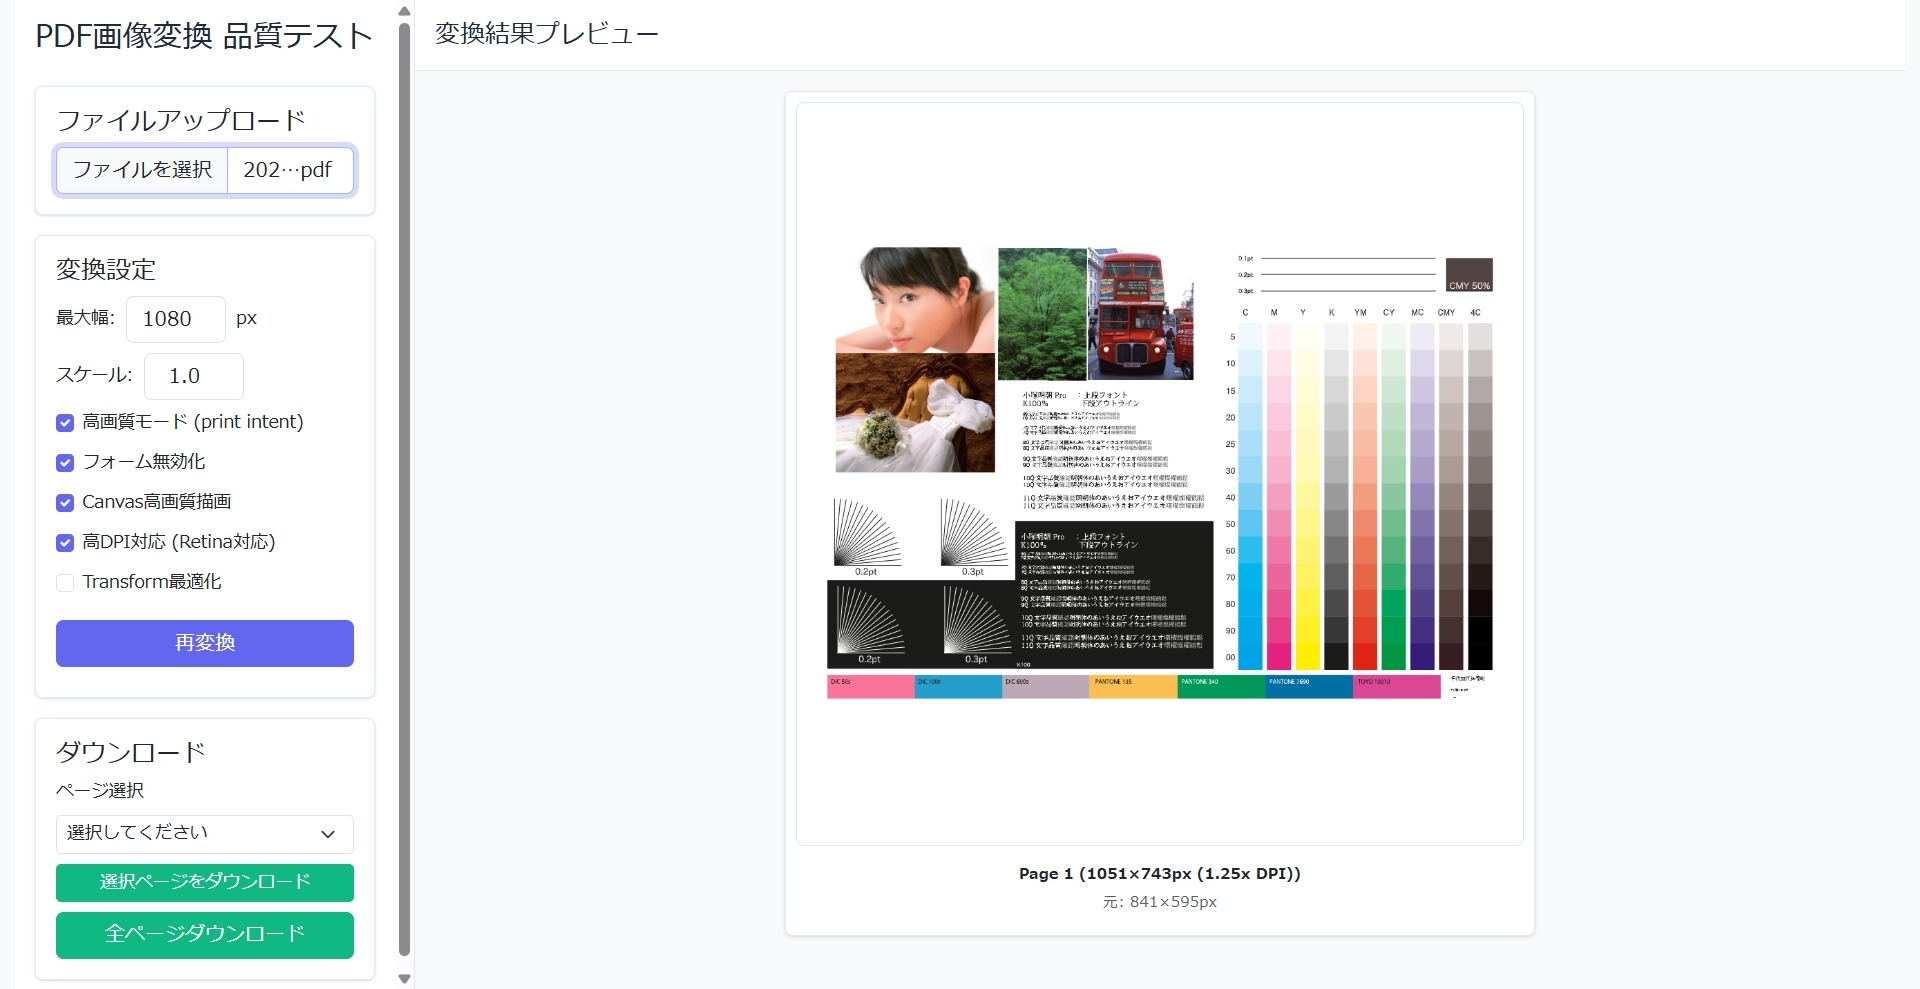
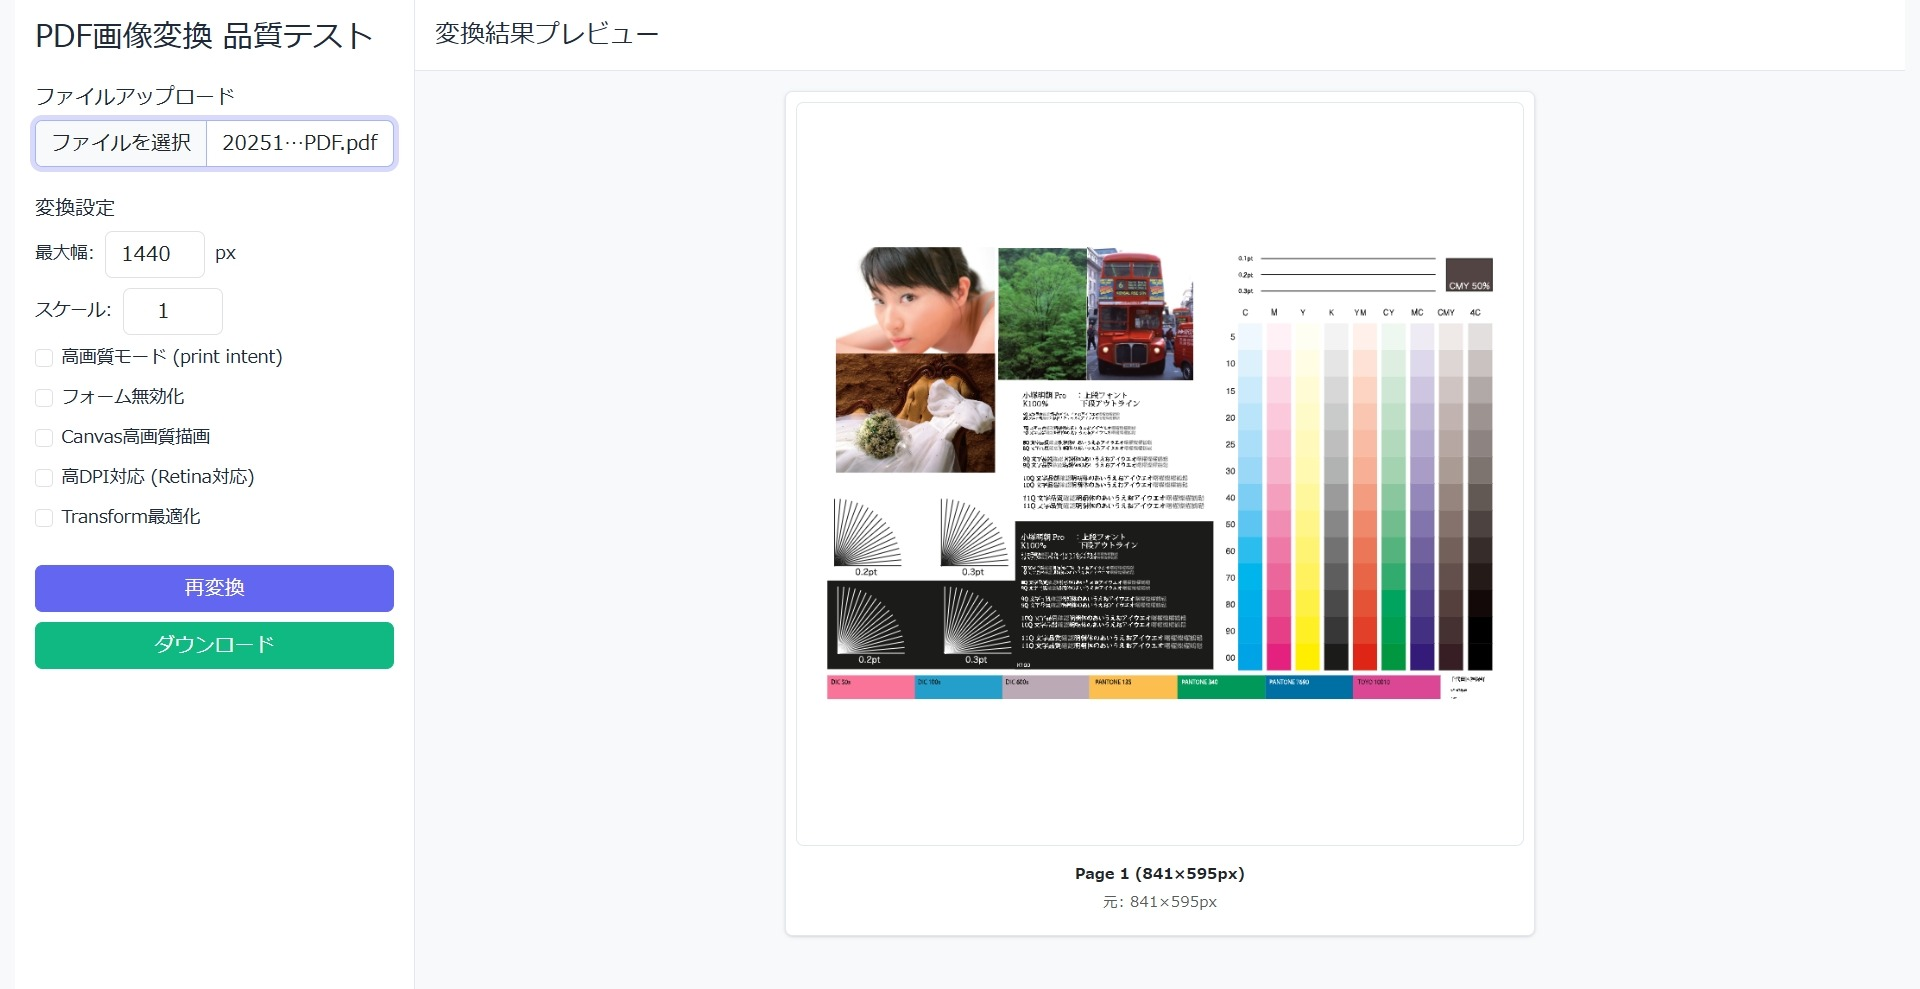
UIの簡素化と設定の自動反映機能を実装: デフォルト値の最適化、カードレイアウトの廃止、debounce付き自動再レンダリング、ページ選択機能の削除

diff --git a/index.html b/index.html
@@ -153,71 +153,51 @@
     <div class="left-pane bg-white border-end p-3">
       <h1 class="h4 mb-4">PDF画像変換 品質テスト</h1>
 
-      <div class="card mb-3">
-        <div class="card-body">
-          <h5 class="card-title">ファイルアップロード</h5>
-          <input type="file" id="pdfUpload" class="form-control" accept="application/pdf">
-        </div>
+      <h6 class="mb-2">ファイルアップロード</h6>
+      <input type="file" id="pdfUpload" class="form-control mb-4" accept="application/pdf">
+
+      <h6 class="mb-2">変換設定</h6>
+
+      <div class="mb-2 d-flex align-items-center gap-2">
+        <label for="maxWidth" class="form-label mb-0 text-nowrap">最大幅:</label>
+        <input type="number" id="maxWidth" class="form-control control-input" value="1440" min="50" max="2000">
+        <span class="text-nowrap">px</span>
       </div>
 
-      <div class="card">
-        <div class="card-body">
-          <h5 class="card-title">変換設定</h5>
-
-          <div class="mb-2 d-flex align-items-center gap-2">
-            <label for="maxWidth" class="form-label mb-0 text-nowrap">最大幅:</label>
-            <input type="number" id="maxWidth" class="form-control control-input" value="1080" min="50" max="2000">
-            <span class="text-nowrap">px</span>
-          </div>
-
-          <div class="mb-2 d-flex align-items-center gap-2">
-            <label for="scale" class="form-label mb-0 text-nowrap">スケール:</label>
-            <input type="number" id="scale" class="form-control control-input" value="1" min="1" max="10" step="1">
-          </div>
-
-          <div class="form-check mb-2">
-            <input type="checkbox" id="printIntent" class="form-check-input" checked>
-            <label for="printIntent" class="form-check-label">高画質モード (print intent)</label>
-          </div>
-
-          <div class="form-check mb-2">
-            <input type="checkbox" id="disableForms" class="form-check-input" checked>
-            <label for="disableForms" class="form-check-label">フォーム無効化</label>
-          </div>
-
-          <div class="form-check mb-2">
-            <input type="checkbox" id="highQualityCanvas" class="form-check-input" checked>
-            <label for="highQualityCanvas" class="form-check-label">Canvas高画質描画</label>
-          </div>
-
-          <div class="form-check mb-2">
-            <input type="checkbox" id="useDevicePixelRatio" class="form-check-input" checked>
-            <label for="useDevicePixelRatio" class="form-check-label">高DPI対応 (Retina対応)</label>
-          </div>
-
-          <div class="form-check mb-3">
-            <input type="checkbox" id="useTransform" class="form-check-input">
-            <label for="useTransform" class="form-check-label">Transform最適化</label>
-          </div>
-
-          <button id="reRender" class="btn btn-primary w-100 mb-2" style="display: none;">再変換</button>
-        </div>
+      <div class="mb-2 d-flex align-items-center gap-2">
+        <label for="scale" class="form-label mb-0 text-nowrap">スケール:</label>
+        <input type="number" id="scale" class="form-control control-input" value="1" min="1" max="10" step="1">
       </div>
 
-      <div class="card mt-3" id="downloadSection" style="display: none;">
-        <div class="card-body">
-          <h5 class="card-title">ダウンロード</h5>
+      <div class="form-check mb-2">
+        <input type="checkbox" id="printIntent" class="form-check-input">
+        <label for="printIntent" class="form-check-label">高画質モード (print intent)</label>
+      </div>
 
-          <div class="mb-2">
-            <label for="pageSelect" class="form-label">ページ選択</label>
-            <select id="pageSelect" class="form-select form-select-sm">
-              <option value="">選択してください</option>
-            </select>
-          </div>
+      <div class="form-check mb-2">
+        <input type="checkbox" id="disableForms" class="form-check-input">
+        <label for="disableForms" class="form-check-label">フォーム無効化</label>
+      </div>
 
-          <button id="downloadSelected" class="btn btn-success btn-sm w-100 mb-2">選択ページをダウンロード</button>
-          <button id="downloadAll" class="btn btn-success w-100">全ページダウンロード</button>
-        </div>
+      <div class="form-check mb-2">
+        <input type="checkbox" id="highQualityCanvas" class="form-check-input">
+        <label for="highQualityCanvas" class="form-check-label">Canvas高画質描画</label>
+      </div>
+
+      <div class="form-check mb-2">
+        <input type="checkbox" id="useDevicePixelRatio" class="form-check-input">
+        <label for="useDevicePixelRatio" class="form-check-label">高DPI対応 (Retina対応)</label>
+      </div>
+
+      <div class="form-check mb-4">
+        <input type="checkbox" id="useTransform" class="form-check-input">
+        <label for="useTransform" class="form-check-label">Transform最適化</label>
+      </div>
+
+      <button id="reRender" class="btn btn-primary w-100 mb-2" style="display: none;">再変換</button>
+
+      <div id="downloadSection" style="display: none;">
+        <button id="downloadAll" class="btn btn-success w-100">ダウンロード</button>
       </div>
     </div>
 
@@ -244,21 +224,39 @@
     const reRenderBtn = document.getElementById('reRender');
     const downloadAllBtn = document.getElementById('downloadAll');
     const downloadSection = document.getElementById('downloadSection');
-    const pageSelect = document.getElementById('pageSelect');
-    const downloadSelectedBtn = document.getElementById('downloadSelected');
 
     let currentPdf = null;
     let currentFileName = null;
     let renderedCanvases = [];
+    let renderDebounceTimer = null;
 
     pdfjsLib.GlobalWorkerOptions.workerSrc = 'https://unpkg.com/pdfjs-dist@2.16.105/build/pdf.worker.js';
+
+    // 設定変更時に自動再レンダリング（debounce付き）
+    function autoRerender() {
+      if (!currentPdf) return;
+
+      clearTimeout(renderDebounceTimer);
+      renderDebounceTimer = setTimeout(() => {
+        renderAllPages();
+      }, 500);
+    }
+
+    // 各設定項目に自動再レンダリングを設定
+    maxWidthInput.addEventListener('input', autoRerender);
+    scaleInput.addEventListener('input', autoRerender);
+    printIntentInput.addEventListener('change', autoRerender);
+    disableFormsInput.addEventListener('change', autoRerender);
+    highQualityCanvasInput.addEventListener('change', autoRerender);
+    useDevicePixelRatioInput.addEventListener('change', autoRerender);
+    useTransformInput.addEventListener('change', autoRerender);
 
     pdfUpload.addEventListener('change', (event) => {
       const file = event.target.files[0];
       if (file && file.type === 'application/pdf') {
         handlePDFFile(file);
       } else if (file) {
-        showError('PDFファイルを選択してください');
+        alert('PDFファイルを選択してください');
       }
     });
 
@@ -270,18 +268,6 @@
 
     downloadAllBtn.addEventListener('click', () => {
       downloadAllPages();
-    });
-
-    downloadSelectedBtn.addEventListener('click', () => {
-      const selectedPageNum = parseInt(pageSelect.value);
-      if (selectedPageNum) {
-        const item = renderedCanvases.find(item => item.pageNumber === selectedPageNum);
-        if (item) {
-          downloadCanvas(item.canvas, item.pageNumber);
-        }
-      } else {
-        showError('ページを選択してください');
-      }
     });
 
     async function handlePDFFile(file) {
@@ -311,9 +297,9 @@
         } catch (error) {
           loading.style.display = 'none';
           if (error.name === 'PasswordException') {
-            showError('パスワード保護されたPDFは使用できません');
+            alert('パスワード保護されたPDFは使用できません');
           } else {
-            showError('PDFの読み込みに失敗しました');
+            alert('PDFの読み込みに失敗しました');
             console.error(error);
           }
         }
@@ -328,17 +314,8 @@
       preview.innerHTML = '';
       renderedCanvases = [];
 
-      // ページセレクトボックスをクリア
-      pageSelect.innerHTML = '<option value="">選択してください</option>';
-
       for (let i = 1; i <= currentPdf.numPages; i++) {
         await renderPage(currentPdf, i);
-
-        // ページセレクトボックスに追加
-        const option = document.createElement('option');
-        option.value = i;
-        option.textContent = `Page ${i}`;
-        pageSelect.appendChild(option);
       }
     }
 
@@ -474,7 +451,7 @@
 
     async function downloadAllPages() {
       if (renderedCanvases.length === 0) {
-        showError('ダウンロードする画像がありません');
+        alert('ダウンロードする画像がありません');
         return;
       }
 
@@ -492,16 +469,9 @@
       }
 
       downloadAllBtn.disabled = false;
-      downloadAllBtn.textContent = '全ページダウンロード';
+      downloadAllBtn.textContent = 'ダウンロード';
     }
 
-    function showError(message) {
-      const errorDiv = document.createElement('div');
-      errorDiv.className = 'alert alert-danger mx-3 mt-3';
-      errorDiv.textContent = message;
-      preview.appendChild(errorDiv);
-      setTimeout(() => errorDiv.remove(), 5000);
-    }
   </script>
 </body>
 </html>

diff --git a/CLAUDE.md b/CLAUDE.md
@@ -53,8 +53,18 @@ const renderContext = {
 - **CMap**: 日本語PDF処理に必須。`cMapUrl` と `cMapPacked: true` の設定が必要
 - **パスワード保護PDF**: `PasswordException` として処理し、エラー表示
 
+## UI/UX設計
+
+- **レイアウト**: 左ペイン (320px固定) と右ペイン (flex) の2カラム構成
+- **自動再レンダリング**: 設定変更時に500msのdebounce処理で自動的に`renderAllPages()`を実行
+- **シンプルなUI**: カード不使用のフラットデザイン、セクション見出しは`<h6>`タグで表現
+- **エラー表示**: シンプルな`alert()`による通知
+
 ## コード変更時の考慮事項
 
-- UI変更時は左ペイン (300px固定) と右ペイン (flex) のレイアウトバランスを維持
-- 新しい品質パラメータ追加時は `renderPage()` 関数と再変換ボタンのイベントハンドラを更新
+- UI変更時は左ペイン (320px固定) と右ペイン (flex) のレイアウトバランスを維持
+- 新しい品質パラメータ追加時は以下を更新:
+  - `renderPage()` 関数
+  - `autoRerender()` 関数のイベントリスナー登録
 - レスポンシブデザイン (768px breakpoint) を考慮
+- 設定変更の自動反映はdebounceで制御（連続変更時の負荷軽減）

diff --git a/CHANGELOG.md b/CHANGELOG.md
@@ -2,14 +2,32 @@
 
 このプロジェクトのすべての重要な変更は、このファイルに記録されます。
 
-## [1.0.1] - 2025-11-10
+## 2025-11-10
 
 ### 改善
+
+* 設定変更時に自動的に再レンダリングする機能を追加（debounce: 500ms）
+* UIをシンプル化: 3つのカードレイアウトからフラットデザインに変更
+* エラー表示をalertに簡素化
+* ダウンロードボタンのラベルを「全ページダウンロード」から「ダウンロード」に変更
+
+### 変更
+
+* 品質オプションのデフォルト値をすべてOFF（unchecked）に変更
+* 最大幅のデフォルト値を1080pxから1440pxに変更
+* 左ペインの幅を300pxから320pxに調整
+
+### 削除
+
+* ページ選択ダウンロード機能を削除（全ページダウンロードのみ残存）
+* 不要な`showError`関数を削除
+
+### 技術的改善
 
 * renderPage関数にコード可読性向上のためのコメントを追加
 * baseScaleとmaxWidthパラメータのデバッグログを追加
 
-## [1.0.0] - 2025-10-31
+## 2025-10-31
 
 ### 追加
 
